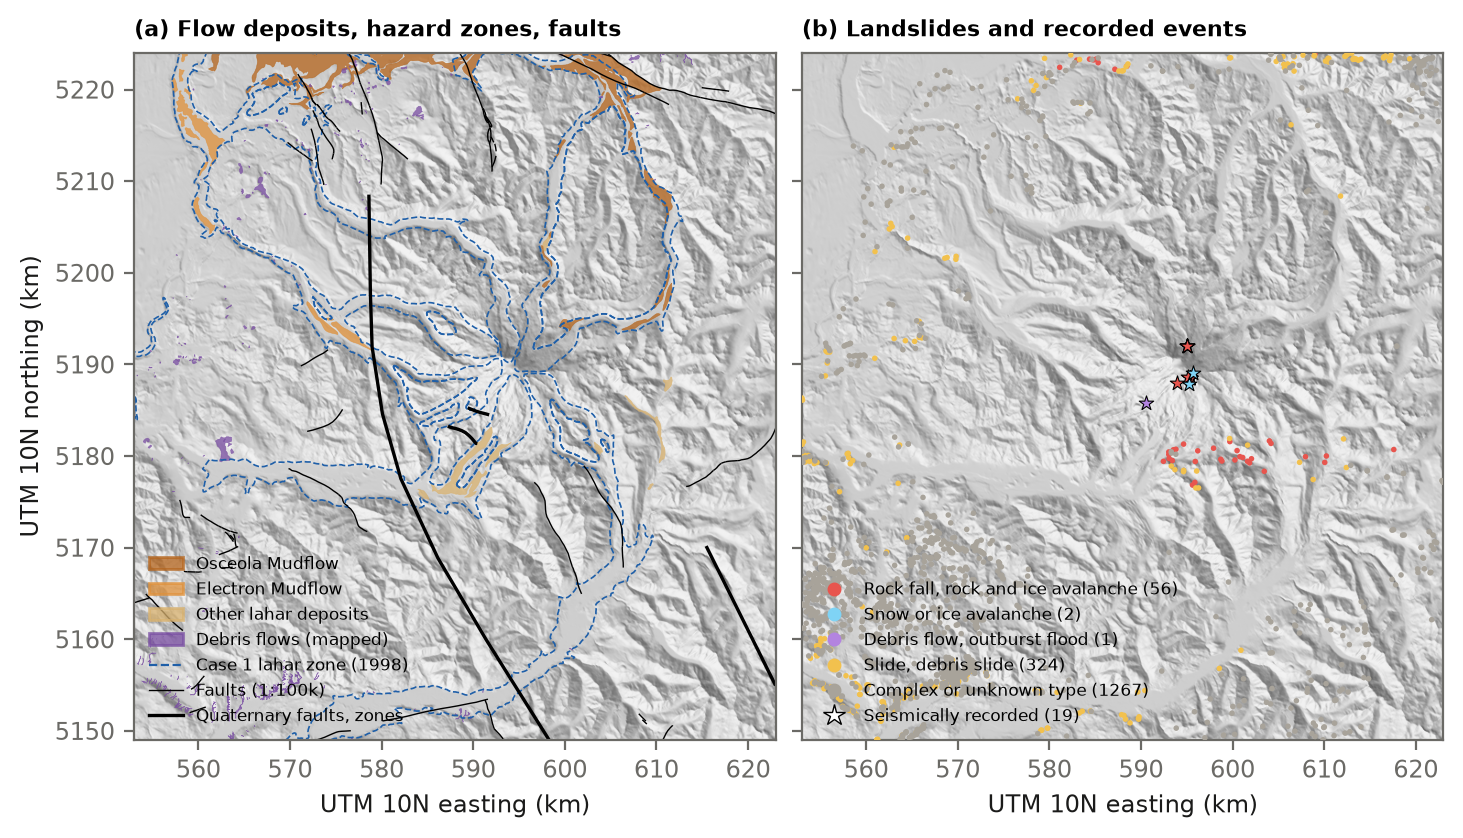
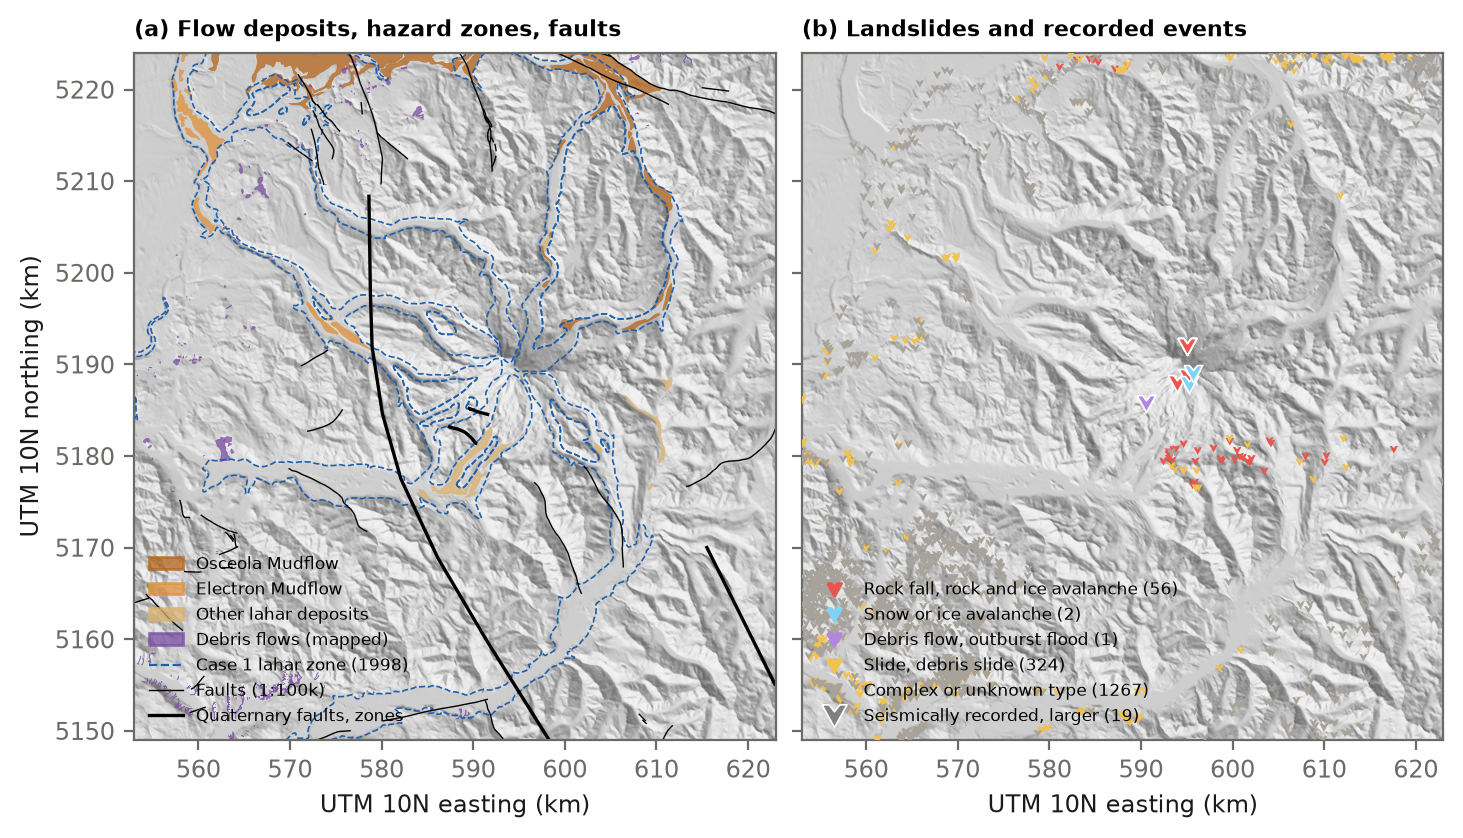
Viewer and paper figure: mass-movement events drawn as downward chevrons
Every other point layer is a disc (earthquake dots, sensor discs and rings) and the legend glyphs already use
triangle, square, diamond, hexagon, bar, cross, drop and ring. The chevron, a triangle with a notch at the top,
is unused and reads as material moving downslope. Mapped landslides: small, dark rim; seismically recorded
events: larger, light rim. Drawn with a signed-distance function in the point shader; the legend and panel (b)
of fig16_mass_movements.png use the same shape. Class colours unchanged.

diff --git a/web/viewer/site/src/scene/MassEventPoints.js b/web/viewer/site/src/scene/MassEventPoints.js
@@ -2,9 +2,10 @@ import * as THREE from "three";
 import { isSeismic, passesMass } from "../data/massEvents.js";
 import { occluded } from "./occlusion.js";
 
-// Mass-movement events as GPU points on the ground, coloured by class, like the earthquakes but at the surface:
-// seismically recorded events are larger with a white rim, mapped landslides (placed at their crown) are small
-// discs with a dark rim. They follow the 2D flattening and the terrain cut; picking is done in screen space.
+// Mass-movement events as GPU points on the ground, coloured by class. The marker is a downward chevron, a shape no
+// other layer uses (earthquakes and sensors are discs): material moving downslope. Seismically recorded events are
+// larger with a light rim, mapped landslides (placed at their crown) are smaller with a dark rim. They follow the 2D
+// flattening and the terrain cut; picking is done in screen space.
 const VERT = `
   attribute vec3 color; attribute float big; attribute float on;
   uniform float uSize, uFlat, uClipOn; uniform vec4 uClip;
@@ -16,15 +17,30 @@ const VERT = `
     vec4 mv = modelViewMatrix * vec4(p, 1.0);
     mv.xyz *= 1.0 - min(0.02, 0.3 / max(length(mv.xyz), 0.001));   // as the sensors: keep slopes from hiding it
     gl_Position = (on < 0.5 || cut) ? vec4(2.0, 2.0, 2.0, 1.0) : projectionMatrix * mv;
-    gl_PointSize = uSize * (big > 0.5 ? 1.9 : 1.0);
+    gl_PointSize = uSize * (big > 0.5 ? 1.6 : 1.0);
   }`;
 const FRAG = `
   varying vec3 vColor; varying float vBig;
+  // signed distance to a triangle (negative inside), after Inigo Quilez
+  float sdTri(vec2 p, vec2 a, vec2 b, vec2 c) {
+    vec2 e0 = b - a, e1 = c - b, e2 = a - c, v0 = p - a, v1 = p - b, v2 = p - c;
+    vec2 q0 = v0 - e0 * clamp(dot(v0, e0) / dot(e0, e0), 0.0, 1.0);
+    vec2 q1 = v1 - e1 * clamp(dot(v1, e1) / dot(e1, e1), 0.0, 1.0);
+    vec2 q2 = v2 - e2 * clamp(dot(v2, e2) / dot(e2, e2), 0.0, 1.0);
+    float s = sign(e0.x * e2.y - e0.y * e2.x);
+    vec2 d = min(min(vec2(dot(q0, q0), s * (v0.x * e0.y - v0.y * e0.x)),
+                     vec2(dot(q1, q1), s * (v1.x * e1.y - v1.y * e1.x))),
+                     vec2(dot(q2, q2), s * (v2.x * e2.y - v2.y * e2.x)));
+    return -sqrt(d.x) * sign(d.y);
+  }
   void main() {
-    float r = length(gl_PointCoord - 0.5);
-    if (r > 0.5) discard;
+    vec2 p = gl_PointCoord;   // y points down the sprite
+    float outer = sdTri(p, vec2(0.03, 0.10), vec2(0.97, 0.10), vec2(0.5, 0.95));
+    float notch = sdTri(p, vec2(0.30, -0.02), vec2(0.70, -0.02), vec2(0.5, 0.36));
+    float sd = max(outer, -notch);   // the chevron: the triangle minus the notch at its top
+    if (sd > 0.0) discard;
     vec3 rim = vBig > 0.5 ? vec3(0.96, 0.96, 0.94) : vec3(0.07);
-    gl_FragColor = vec4(r > 0.36 ? rim : vColor, vBig > 0.5 ? 1.0 : 0.9);
+    gl_FragColor = vec4(sd > -0.05 ? rim : vColor, 1.0);
   }`;
 
 // Height of a point: the highest overview-grid ground within 60 m, plus 15 m. The overview grid (~35-50 m cells)
@@ -55,7 +71,7 @@ export class MassEventPoints {
     g.setAttribute("color", new THREE.BufferAttribute(col, 3));
     g.setAttribute("big", new THREE.BufferAttribute(big, 1));
     g.setAttribute("on", (this.onAttr = new THREE.BufferAttribute(on, 1)));
-    const U = { uSize: { value: 7 * Math.min(devicePixelRatio, 2) }, uFlat: rs.U.flat, uClipOn: rs.U.clipOn, uClip: rs.U.clip };
+    const U = { uSize: { value: 12 * Math.min(devicePixelRatio, 2) }, uFlat: rs.U.flat, uClipOn: rs.U.clipOn, uClip: rs.U.clip };
     this.points = new THREE.Points(g, new THREE.ShaderMaterial({ uniforms: U, vertexShader: VERT, fragmentShader: FRAG, transparent: true }));
     this.points.frustumCulled = false; this.points.renderOrder = 6;
     rs.scene.add(this.points);

diff --git a/web/viewer/site/src/ui/MassFilter.jsx b/web/viewer/site/src/ui/MassFilter.jsx
@@ -1,3 +1,4 @@
+import Glyph from "./Glyph.jsx";
 import "./ui.css";
 
 // Mass-movement legend and filter. "Events" shows the points, "Dated only" keeps observed and seismically recorded
@@ -19,7 +20,7 @@ export default function MassFilter({ doc, filter, onFilter, counts, flows, onFlo
         {doc.classes.filter(c => counts[c.key]).map(c => (
           <button key={c.key} className="sf-kind" aria-pressed={on(c.key)} title={`Show only: ${c.label.toLowerCase()} (again: all)`}
             onClick={() => only(c.key)}>
-            <span className="m-dot" style={{ background: c.color }} /><span>{c.label}</span>
+            <Glyph glyph="chevron" color={c.color} size={13} /><span>{c.label}</span>
             <span className="mono n">{counts[c.key].toLocaleString("en-US")}</span>
           </button>
         ))}

diff --git a/web/viewer/site/src/ui/Glyph.jsx b/web/viewer/site/src/ui/Glyph.jsx
@@ -7,6 +7,7 @@ const SHAPES = {
   bar: c => <rect x="0.8" y="4.3" width="10.4" height="3.4" fill={c} />,
   cross: c => <path d="M6 1v10M1 6h10" stroke={c} strokeWidth="3" />,
   ring: c => <circle cx="6" cy="6" r="3.8" fill="none" stroke={c} strokeWidth="2.2" />,
+  chevron: c => <polygon points="0.4,1.3 3.8,1.3 6,4.4 8.2,1.3 11.6,1.3 6,11.4" fill={c} />,
   drop: c => <path d="M6 0.8C8.6 4.4 10 6.3 10 7.8a4 4 0 0 1-8 0c0-1.5 1.4-3.4 4-7z" fill={c} />,
 };
 export default function Glyph({ glyph, color, size = 11 }) {

diff --git a/web/viewer/site/src/ui/ui.css b/web/viewer/site/src/ui/ui.css
@@ -164,4 +164,3 @@ input[type=range]:disabled { opacity: 0.35; }
 .stip { width: 320px; }
 .sp-stnote { margin: 8px 0 0; color: var(--text-secondary); font-size: 11.5px; line-height: 1.5; border-left: 2px solid #9085e9; padding-left: 8px; }
 .mfilter { border-top: 1px solid var(--hairline); padding-top: 10px; margin-top: 4px; }
-.m-dot { width: 10px; height: 10px; border-radius: 50%; box-shadow: 0 0 0 1.5px #121211; justify-self: center; }

diff --git a/src/rainier3d/report/figures.py b/src/rainier3d/report/figures.py
@@ -987,6 +987,10 @@ def fig_mass_movements(tree, flows, events, faults, zones, path):
     ax.set_title("(a) Flow deposits, hazard zones, faults", fontsize=8, loc="left")
     ax = axs[1]
     handles = []
+    # the viewer's marker: a downward chevron (material moving downslope), not used by any other layer
+    from matplotlib.path import Path as MPath
+
+    chev = MPath([(-0.94, 0.8), (-0.4, 0.8), (0, 0.28), (0.4, 0.8), (0.94, 0.8), (0, -0.9), (-0.94, 0.8)])
     for key, label, c in EVENT_CLASSES:
         n = int((events.cls == key).sum())
         for seismic in (False, True):
@@ -995,26 +999,26 @@ def fig_mass_movements(tree, flows, events, faults, zones, path):
                 ax.scatter(
                     e.geometry.x / 1e3,
                     e.geometry.y / 1e3,
-                    s=30 if seismic else 4,
-                    marker="*" if seismic else "o",
+                    s=45 if seismic else 9,
+                    marker=chev,
                     color=c,
-                    edgecolor="k" if seismic else "none",
-                    lw=0.4,
+                    edgecolor="w" if seismic else "none",
+                    lw=0.6,
                     zorder=4 if seismic else 3,
                 )
         if n:
-            handles.append(plt.Line2D([], [], ls="", marker="o", ms=4, color=c, label=f"{label} ({n})"))
+            handles.append(plt.Line2D([], [], ls="", marker=chev, ms=5, color=c, label=f"{label} ({n})"))
     handles.append(
         plt.Line2D(
             [],
             [],
             ls="",
-            marker="*",
-            ms=8,
-            mfc="w",
-            mec="k",
-            mew=0.5,
-            label=f"Seismically recorded ({int((events.located == 'seismic').sum())})",
+            marker=chev,
+            ms=9,
+            mfc="0.5",
+            mec="w",
+            mew=0.6,
+            label=f"Seismically recorded, larger ({int((events.located == 'seismic').sum())})",
         )
     )
     ax.legend(handles=handles, loc="lower left", fontsize=6, framealpha=0.85)

diff --git a/docs/paper/rainier3d_paper.md b/docs/paper/rainier3d_paper.md
@@ -701,7 +701,7 @@ The inventory records a failure depth for every lidar-protocol deposit (453 depo
 
 : The mass-movement catalogue in the model box (S24, `outputs/mass_movements/summary.csv`, run of 2026-09-25). Seismic events are from @allstadt_2017_esec; mapped and recent events from @wgs_landslide_inventory. Of the 1,650 events, 377 are dated; 351 of these are landslides of the January 2009 storm in the compilation. {#tbl:mass-counts}
 
-![Mass movements and faults. (a) Lahar deposits and mapped debris flows, the case 1 lahar inundation zone of 1998 (dashed), and faults of the 1:100,000 map (thin) and of the Quaternary fault layer (thick). (b) Event points by class: landslides at their crown (dots) and seismically recorded events (stars).](figures/fig16_mass_movements.png){#fig:mass width=100%}
+![Mass movements and faults. (a) Lahar deposits and mapped debris flows, the case 1 lahar inundation zone of 1998 (dashed), and faults of the 1:100,000 map (thin) and of the Quaternary fault layer (thick). (b) Events by class, drawn as downward chevrons as in the viewer: landslides at their crown (small) and seismically recorded events (large, white rim).](figures/fig16_mass_movements.png){#fig:mass width=100%}
 
 **Other machine-readable sources.** The U.S. Landslide Inventory [@usgs_landslide_inventory_v3; @mirus_2020] compiles the same state data nationally, and the compilation layer includes the park-wide mapping of 448 mass movements over 37 km² by @riedel_dorsch_2016. PNSN classifies surface events in its own catalogue, but these classes are not in ComCat: within 25 km of the summit, ComCat lists 14,288 events and none of them is a surface event. The curated PNSN dataset of @ni2023 and the classifiers of @kharita_2026 give labelled waveforms for training detectors.
 
